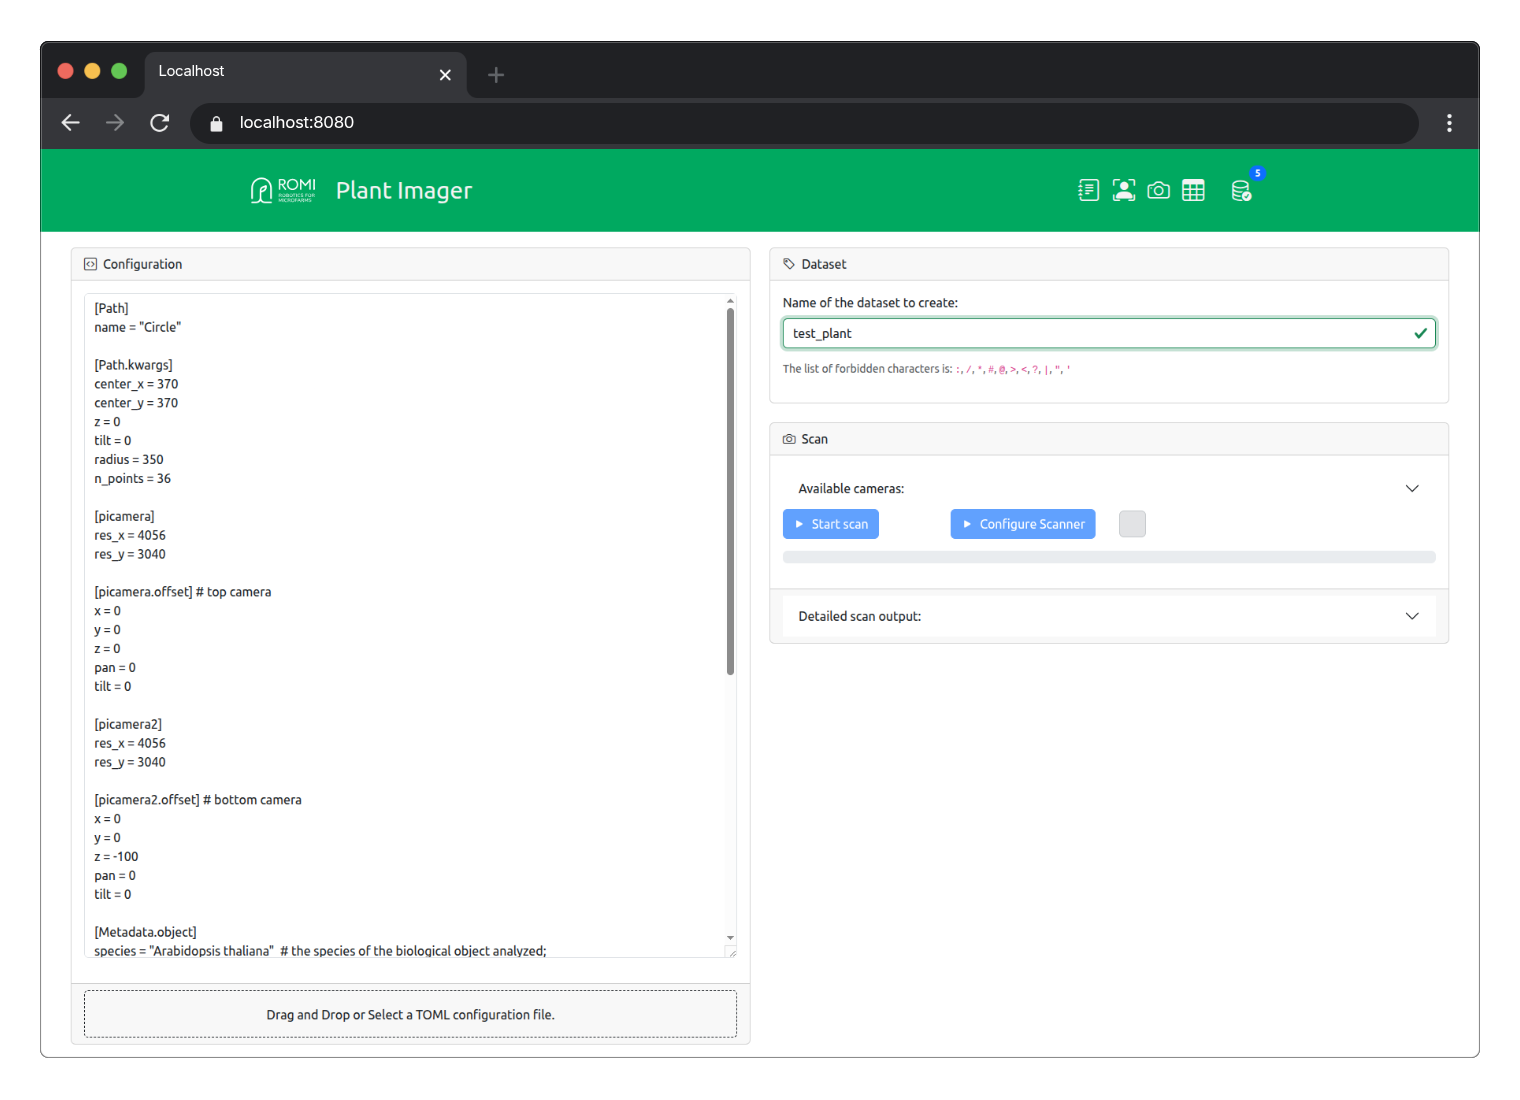
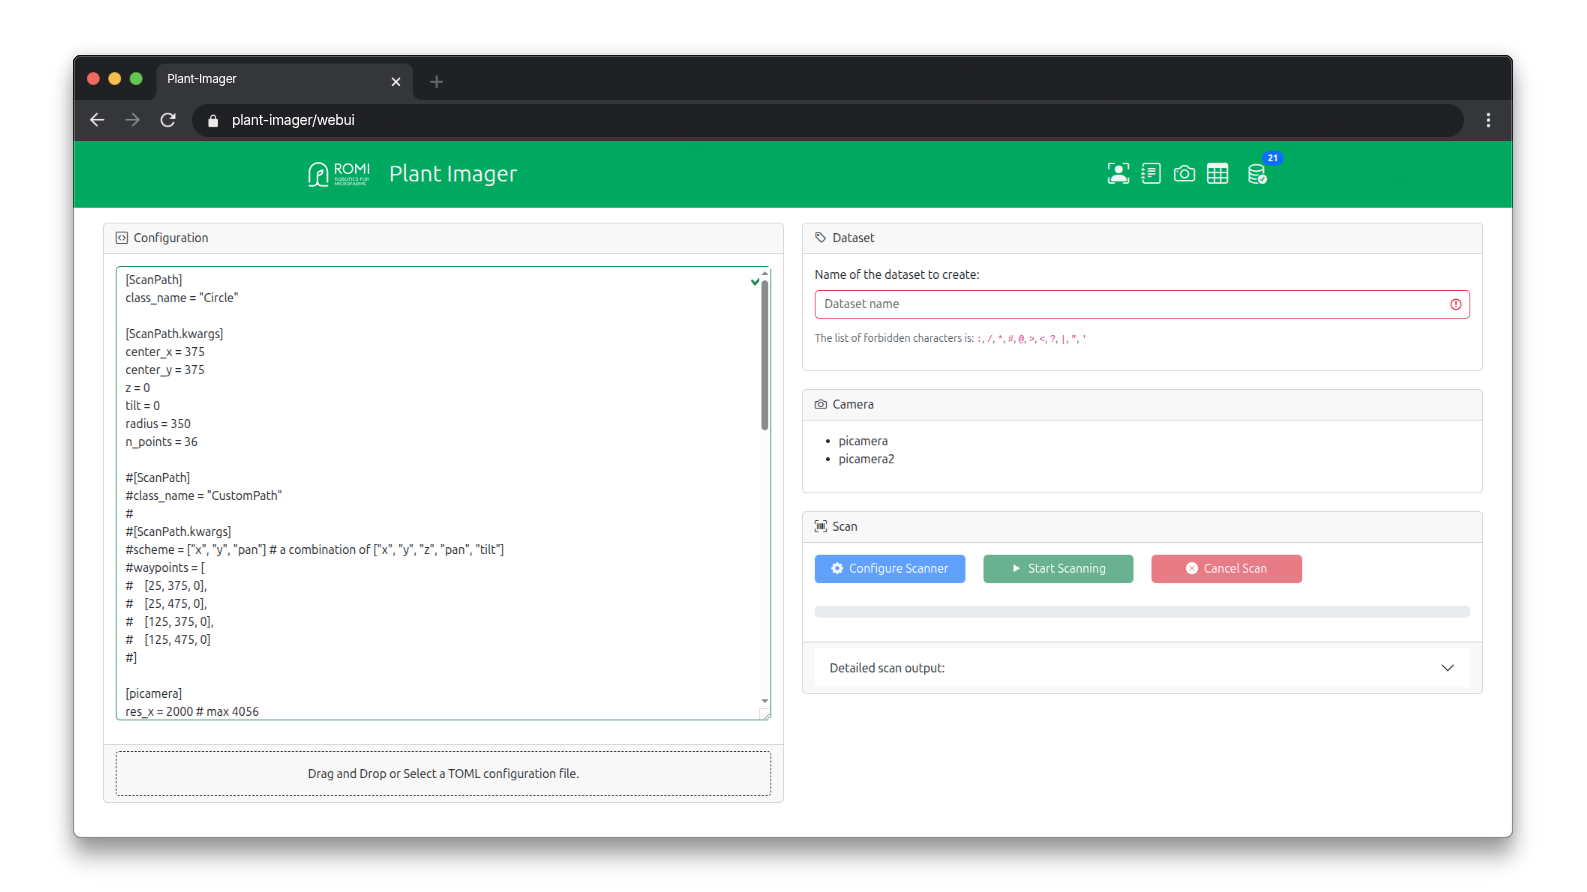
Update WebUI README: fix image paths, add env var docs, clean Docker instructions
- Adjust relative image links to `../../docs/assets/images/...` in `src/webui/README.md`
- Update licence and Python version badges to reference the Plant‑Imager3 repository
- Refine package description and include a screenshot reference
- Remove obsolete sections and excess blank lines for cleaner layout
- Add an **Environment variable** section documenting `ALLOW_PRIVATE_IP`, `CERT_PATH`, and `VALIDATE_HOST`, and note usage of `dotenv.load_dotenv` with a `.env` file
- Reformat the Docker run command indentation for consistency
- Remove duplicated security recommendations and unrelated Let’s Encrypt content
- Polish markdown formatting and wording throughout the file

diff --git a/src/webui/README.md b/src/webui/README.md
@@ -1,17 +1,12 @@
-# [![ROMI_logo](docs/assets/images/ROMI_logo_green_25.svg)](https://romi-project.eu) / plantimager.webui
+# [![ROMI_logo](../../docs/assets/images/ROMI_logo_green_25.svg)](https://romi-project.eu) / plantimager.webui
 
-[![Licence](https://img.shields.io/github/license/romi/plantdb?color=lightgray)](https://www.gnu.org/licenses/lgpl-3.0.en.html)
-[![Python Version](https://img.shields.io/python/required-version-toml?tomlFilePath=https%3A%2F%2Fraw.githubusercontent.com%2Fromi%2Fplantdb%2Frefs%2Fheads%2Fdev%2Fsrc%2Fcommons%2Fpyproject.toml&logo=python&logoColor=white)]()
+[![Licence](https://img.shields.io/github/license/romi/Plant-Imager3?color=lightgray)](https://www.gnu.org/licenses/lgpl-3.0.en.html)
+[![Python Version](https://img.shields.io/python/required-version-toml?tomlFilePath=https%3A%2F%2Fgithub.com%2Fromi%2FPlant-Imager3%2Fraw%2Frefs%2Fheads%2Fdevelop%2Fsrc%2Fwebui%2Fpyproject.toml)]()
 
-A Dash-based Python package for the main controller (Raspberry Pi 4 or 5).
-It offers a client interface for plant scanning.
+A Dash-based Python package providing a web-based user interface for plant scanning.
+It is intended to run on the main controller (Raspberry Pi 4 or 5) or as a Docker container in a remote server.
 
-This package provides a web-based user interface for plant scanning:
-
-- Dash-based web application
-- Scan configuration and execution
-- Integration with the controller package
-
+![webui_screenshot.png](../../docs/assets/images/webui_screenshot.png)
 
 ## Environment Setup
 
@@ -24,6 +19,7 @@ To create a new conda environment, named `plant-imager3`, with Python3.11 & IPyt
 ``` shell
 conda create -n plant-imager3 'python==3.11' ipython
 ```
+
 
 ## Installation
 
@@ -54,7 +50,6 @@ For regular users who just need to use the application without modifying the sou
 This method installs a pre-built version of the application, making it quick and easy to set up.
 
 
-
 ## Usage
 
 ### Development
@@ -72,6 +67,19 @@ To run the app in development mode, you have two options:
 Both methods will start the Dash-based web application in development mode, which includes features like automatic code reloading and detailed error messages, making it easier to develop and test your application efficiently.
 
 ### Production
+
+#### Environment variable
+
+Here is the list of environment variables you can define:
+
+- `ALLOW_PRIVATE_IP`: if `True`, allow the use of private IPs for PlantDB REST API URL
+- `CERT_PATH`: specify the path to the self-signed certificates used by the PlantDB server.
+- `VALIDATE_HOST`: if `True`, check the PlantDB REST API URL against a blacklist
+
+The app makes use of `dotenv.load_dotenv` so you can define them in a `.env` file located in the same directory as the `app.py` file.
+It should be under `src/webui/plantimager/webui`.
+
+> If you are running the WebUI on a different machine than the NGINX server is running to serve the PlantDB and want to use SSL, do not forget to copy the (self-signed) certificate and reference them with the `CERT_PATH` env var. 
 
 #### Running with uWSGI
 `uWSGI` is a fast, self-healing, and extensively configurable application server that can serve Python applications.
@@ -105,13 +113,6 @@ uwsgi --http :8080 --module plantimager.webui.wsgi:application --callable applic
 - `--thunder-lock`: Use a more efficient lock mechanism for multi-process deployments
 
 
-#### Security Recommendations
-
-1. **Use a volume for certificates** - This allows you to update certificates without rebuilding the container
-2. **Use a proper certificate authority** - Let's Encrypt is free and widely trusted
-3. **Set up auto-renewal** - Let's Encrypt certificates expire after 90 days
-4. **Use strong SSL settings** - As included in the configuration
-
 ## Docker
 
 ### Build Image
@@ -132,9 +133,9 @@ Once you've built the Docker image, you can run it as a container. This will sta
 
 1. Open your terminal.
 2. Run the following command:
-    ```shell
-    docker run -it --rm --name plantimager_webui -p 8080:8080 roboticsmicrofarms/plantimager_webui:latest "uwsgi --http :8080 --module plantimager.webui.wsgi:application --callable application --master  --processes 4 --threads 2 --thunder-lock"
-    ```
+   ```shell
+   docker run -it --rm --name plantimager_webui -p 8080:8080 roboticsmicrofarms/plantimager_webui:latest "uwsgi --http :8080 --module plantimager.webui.wsgi:application --callable application --master  --processes 4 --threads 2 --thunder-lock"
+   ```
 
 Let's break down what this command does:
 - `docker run`: This starts a new Docker container.
@@ -148,85 +149,3 @@ Let's break down what this command does:
 After running this command, you should be able to access the web UI by opening your browser and navigating to `http://localhost:8080/webui`.
 
 If you encounter any issues or need further assistance, please refer to the [Docker documentation](https://docs.docker.com/) for more details.
-
-
-## Let's Encrypt Certificates
-
-Let's Encrypt is a free, automated, and open Certificate Authority that provides TLS certificates trusted by all major browsers.
-
-### How Let's Encrypt Works
-1. **Domain Validation**: Let's Encrypt validates that you control a domain before issuing a certificate
-2. **Automated**: The entire process can be automated using the Certbot client
-3. **Short Validity**: Certificates are valid for 90 days to encourage automation
-4. **Renewal**: Certificates must be renewed before expiration
-
-### Setting Up Let's Encrypt with NGINX in Docker
-
-#### Method 1: Using Certbot with Docker
-
-1. **Create a Docker network for your services**:
-   ``` bash
-   docker network create web
-   ```
-1. **Run Certbot in Docker to obtain certificates**:
-   ``` bash
-   docker run -it --rm \
-     -v /etc/letsencrypt:/etc/letsencrypt \
-     -v /var/lib/letsencrypt:/var/lib/letsencrypt \
-     -p 80:80 \
-     certbot/certbot certonly --standalone \
-     -d yourdomain.com --agree-tos -m [email redacted]
-   ```
-1. **Mount the certificates in your NGINX container**:
-   ``` bash
-   docker run -d \
-     -v /etc/letsencrypt:/etc/letsencrypt \
-     -p 80:80 -p 443:443 \
-     --network web \
-     your-nginx-image
-   ```
-1. **Update your NGINX configuration to use the certificates**:
-   ``` nginx
-   ssl_certificate /etc/letsencrypt/live/yourdomain.com/fullchain.pem;
-   ssl_certificate_key /etc/letsencrypt/live/yourdomain.com/privkey.pem;
-   ```
-
-#### Method 2: Using Docker Compose with Nginx and Certbot
-
-``` yaml
-services:
-  nginx:
-    image: your-nginx-image
-    ports:
-      - "80:80"
-      - "443:443"
-    volumes:
-      - ./nginx/conf.d:/etc/nginx/conf.d
-      - ./certbot/conf:/etc/letsencrypt
-      - ./certbot/www:/var/www/certbot
-    command: "/bin/sh -c 'while :; do sleep 6h & wait $${!}; nginx -s reload; done & nginx -g \"daemon off;\"'"
-    
-  certbot:
-    image: certbot/certbot
-    volumes:
-      - ./certbot/conf:/etc/letsencrypt
-      - ./certbot/www:/var/www/certbot
-    entrypoint: "/bin/sh -c 'trap exit TERM; while :; do certbot renew; sleep 12h & wait $${!}; done;'"
-```
-
-### Let's Encrypt Certificate Renewal
-
-Certificates expire after 90 days and must be renewed. Set up automatic renewal:
-1. **Using a Cron Job on the Host**:
-   ``` 
-   0 12 * * * docker run --rm -v /etc/letsencrypt:/etc/letsencrypt -v /var/lib/letsencrypt:/var/lib/letsencrypt certbot/certbot renew --quiet && docker exec nginx nginx -s reload
-   ```
-2. **Using a Docker Container** (as shown in Docker Compose example above)
-
-### Testing Your SSL Configuration
-
-After setting up, test your SSL configuration using:
-1. **SSL Labs**: [https://www.ssllabs.com/ssltest/](https://www.ssllabs.com/ssltest/)
-2. **Mozilla Observatory**: [https://observatory.mozilla.org/](https://observatory.mozilla.org/)
-
-These tools will analyze your HTTPS implementation and suggest improvements.